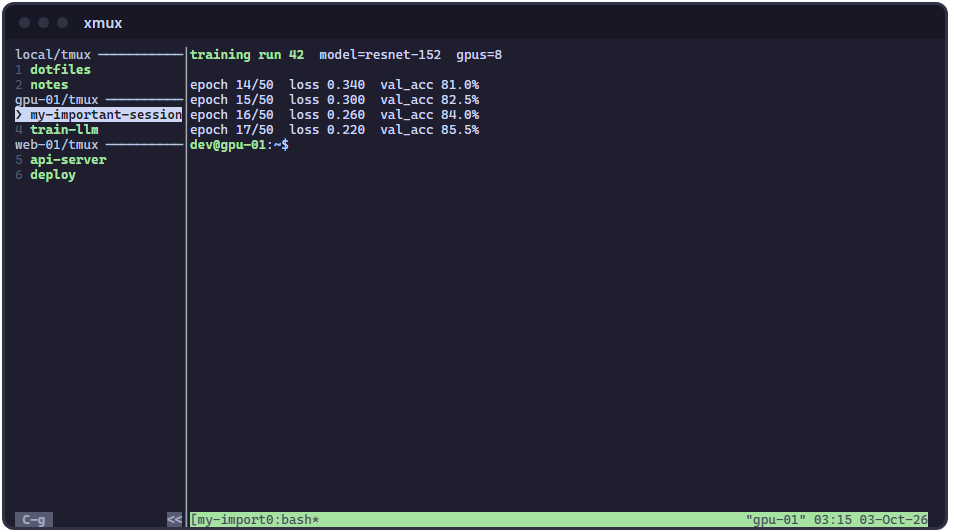
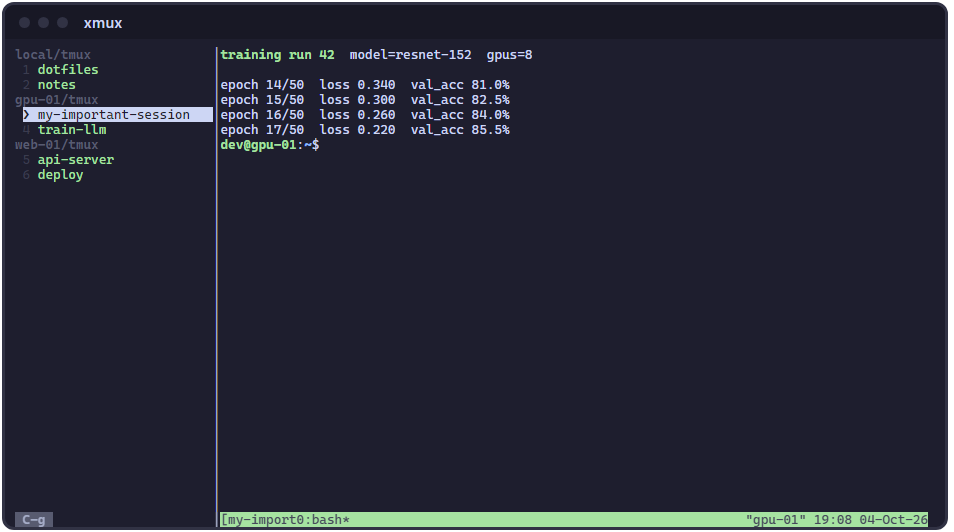
docs: regenerate README demos with v0.12.3

Changed region(s): [[0.0, 0.0902, 0.5776, 0.9925], [0.8512, 0.9624, 0.9119, 0.9925]]

diff --git a/scripts/demo/record.py b/scripts/demo/record.py
@@ -19,10 +19,9 @@ CHORD = 0.6       # after the prefix, before its command key
 HOLD = 0.3        # a held Ctrl-arrow; inside the app's 400 ms resize repeat window
 REACT = 0.6       # after the screen answers, before the next command
 
-# The smallest nav that shows every demo card whole: the widest card is
-# "3 my-important-session" (22 columns), and a band holds a source title, its two
-# cards, and the status line (4 rows).
-NAV_WIDTH = 22
+# The nav leaves room for card padding around "3 my-important-session".
+# A band holds a source title, its two cards, and the status line (4 rows).
+NAV_WIDTH = 26
 NAV_HEIGHT = 4
 
 KEYS = {
@@ -167,7 +166,7 @@ def compare_xmux(s):
     fresh_app_state()
     s.type("xmux"); s.key("Enter", TYPE)
     s.answered("my-important-session")
-    s.type("/my-imp"); s.key("Enter", TYPE)
+    s.prefix(); s.type("/my-imp"); s.key("Enter", TYPE)
     enter = s.term.keys[-1][0]
     return max(s.term.wait("epoch 17/50"), enter)
 

diff --git a/scripts/demo/README.md b/scripts/demo/README.md
@@ -16,7 +16,7 @@ release:
 
 ```sh
 scripts/demo/make-gifs.sh            # the version in Cargo.toml
-scripts/demo/make-gifs.sh 0.11.2     # any published release
+scripts/demo/make-gifs.sh 0.12.3     # any published release
 ```
 
 The script needs Docker and Node.js on `PATH`. It overwrites the GIFs in
@@ -41,7 +41,7 @@ Each scenario runs a shell on a pseudo terminal inside `laptop` and types keys a
 a fixed pace. A step that waits on the app waits until the screen shows the
 expected text, so the recording keeps the real latency of ssh, tmux, and xmux.
 Both sides of the comparison type at the same pace. Every xmux scenario starts
-with the smallest nav that shows each demo card whole. The pacing constants and
+with a nav wide enough to show each demo card whole. The pacing constants and
 the nav size sit at the top of `record.py`.
 
 The recordings are replayed in a terminal emulator in a headless browser, one

diff --git a/README.ko.md b/README.ko.md
@@ -23,8 +23,8 @@ xmux는 다음 사용자를 위한 도구다.
     만든다.
 
 ![이 GIF는 같은 키 입력 속도로 나란히 녹화한 두 터미널을 보여준다. 왼쪽 터미널에서는
-ssh로 gpu-01에 접속해 tmux 세션 목록을 확인하고 attach하기까지 7.2초가 걸린다.
-오른쪽 터미널에서는 xmux nav에서 같은 세션을 선택하기까지 2.1초가 걸린다.](docs/assets/xmux-demo.gif)
+ssh로 gpu-01에 접속해 tmux 세션 목록을 확인하고 attach하기까지 7.1초가 걸린다.
+오른쪽 터미널에서는 xmux nav에서 같은 세션을 선택하기까지 2.7초가 걸린다.](docs/assets/xmux-demo.gif)
 
 - **모든 세션을 하나의 nav에.** 이 머신, 이 머신의 WSL 배포판, 접근할 수 있는 모든
   ssh host의 세션이 nav에 함께 표시된다.

diff --git a/README.md b/README.md
@@ -23,8 +23,8 @@ xmux is built for people who:
     simpler.
 
 ![Two terminals recorded side by side at the same typing speed. On the left,
-ssh gpu-01, tmux ls and tmux attach reach a remote tmux session in 7.2
-seconds; on the right, xmux selects the same session from its nav in 2.1
+ssh gpu-01, tmux ls and tmux attach reach a remote tmux session in 7.1
+seconds; on the right, xmux selects the same session from its nav in 2.7
 seconds.](docs/assets/xmux-demo.gif)
 
 - **Every session in one nav.** The sessions on this machine, on its WSL
